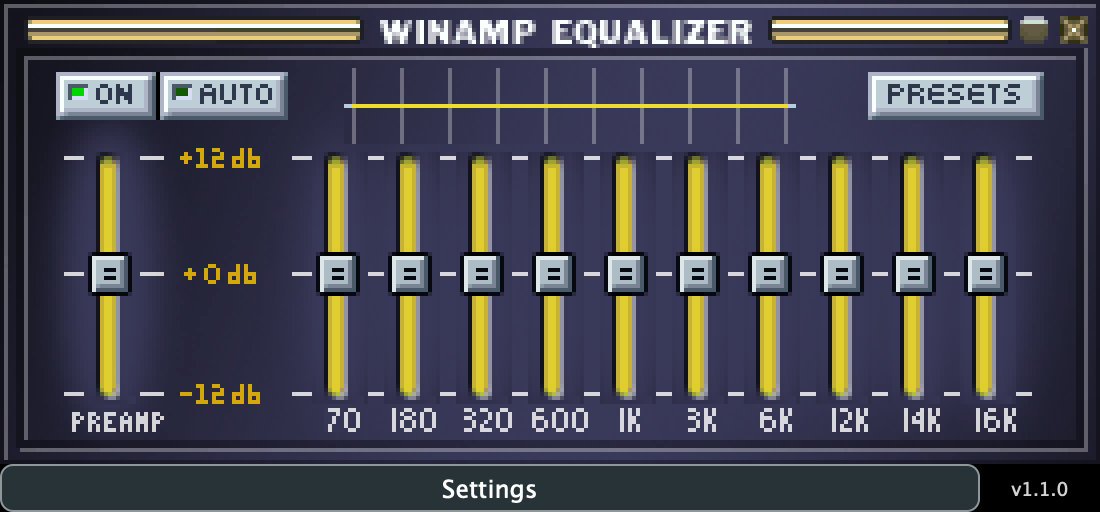
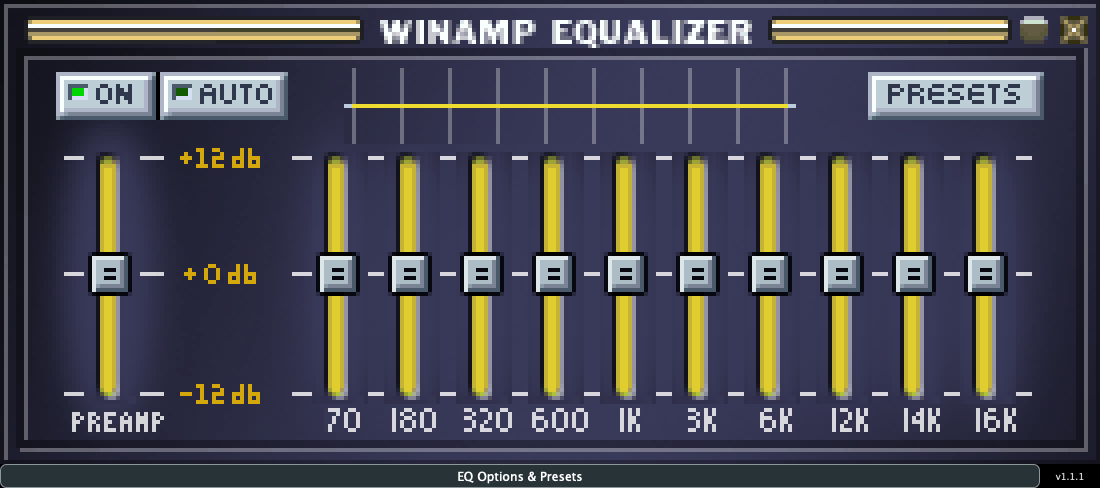
Add peak limiter protection to Constant-Q mode and 0dB detent status feedback

diff --git a/tools/capture.cpp b/tools/capture.cpp
@@ -1,0 +1,30 @@
+#include <juce_gui_basics/juce_gui_basics.h>
+#include "../Source/Plugin/PluginProcessor.h"
+#include <iostream>
+
+int main(int argc, char** argv) {
+    juce::ScopedJuceInitialiser_GUI gui;
+    EqualizerProcessor processor;
+    processor.editorScale = 4;
+    processor.prepareToPlay(48000.0, 512);
+    std::unique_ptr<juce::AudioProcessorEditor> editor(processor.createEditor());
+    if (!editor) {
+        std::cerr << "Failed to create editor\n";
+        return 1;
+    }
+    const juce::Image snapshot = editor->createComponentSnapshot(editor->getLocalBounds(), false, 1.0f);
+    juce::File file = juce::File::getCurrentWorkingDirectory().getChildFile(argc > 1 ? argv[1] : "assets/native-ui.png");
+    file.getParentDirectory().createDirectory();
+    file.deleteFile();
+    juce::FileOutputStream stream(file);
+    if (!stream.openedOk()) {
+        std::cerr << "Cannot open file\n";
+        return 1;
+    }
+    juce::PNGImageFormat png;
+    if (png.writeImageToStream(snapshot, stream)) {
+        std::cout << "Saved " << file.getFullPathName() << " (" << snapshot.getWidth() << "x" << snapshot.getHeight() << ")\n";
+        return 0;
+    }
+    return 1;
+}

diff --git a/Source/Plugin/PluginEditor.cpp b/Source/Plugin/PluginEditor.cpp
@@ -17,6 +17,7 @@ EqualizerEditor::EqualizerEditor(EqualizerProcessor& owner)
     , processor_(owner)
 {
     settingsButton_.onClick = [this] { showOptionsMenu(); };
+    settingsButton_.setButtonText("EQ Options & Presets");
     addAndMakeVisible(settingsButton_);
 
     versionLabel_.setText("v" JucePlugin_VersionString, juce::dontSendNotification);
@@ -103,7 +104,7 @@ void EqualizerEditor::mouseDrag(const juce::MouseEvent& event)
     if (!result.statusText.empty())
         settingsButton_.setButtonText(result.statusText);
     else
-        settingsButton_.setButtonText("Settings");
+        settingsButton_.setButtonText("EQ Options & Presets");
 
     lastSettings_ = settings;
     renderImage();
@@ -115,7 +116,7 @@ void EqualizerEditor::mouseUp(const juce::MouseEvent& event)
     if (!dragging_)
         return;
     dragging_ = false;
-    settingsButton_.setButtonText("Settings");
+    settingsButton_.setButtonText("EQ Options & Presets");
 
     auto settings = params::readSettings(processor_.parameters);
     const auto pt = toWinampCoords(event.getPosition());

diff --git a/Source/Core/EqualizerDsp.cpp b/Source/Core/EqualizerDsp.cpp
@@ -69,10 +69,19 @@ void EqualizerDsp::process(std::span<float> left, std::span<float> right, int nu
         for (float& sample : span)
             sample *= preamp;
 
-        if (settings.type == EqType::FourFront)
+        if (settings.type == EqType::FourFront) {
             fourFront_[static_cast<std::size_t>(ch)].processChannel(span, settings.limiter);
-        else
+        } else {
             constantQ_[static_cast<std::size_t>(ch)].processChannel(span);
+            if (settings.limiter) {
+                for (float& sample : span) {
+                    const float mag = std::abs(sample);
+                    if (mag > 0.930f) {
+                        sample = std::copysign(0.930f + 0.06f * std::tanh((mag - 0.930f) / 0.06f), sample);
+                    }
+                }
+            }
+        }
     }
 }
 

diff --git a/Source/Core/ClassicEqWindow.cpp b/Source/Core/ClassicEqWindow.cpp
@@ -193,7 +193,11 @@ std::string ClassicEqWindow::formatSliderStatus(int which, int pos, FrequencyBan
                             : kWinampLabels[static_cast<std::size_t>(idx)];
     const float db = songtickerDb(pos);
     char buffer[64] {};
-    std::snprintf(buffer, sizeof(buffer), "EQ: %s: %s%.1f dB", label, db >= 0.0f ? "+" : "", static_cast<double>(db));
+    if (pos == kSliderCenter) {
+        std::snprintf(buffer, sizeof(buffer), "EQ: %s: 0.0 dB [DETENT]", label);
+    } else {
+        std::snprintf(buffer, sizeof(buffer), "EQ: %s: %s%.1f dB", label, db >= 0.0f ? "+" : "", static_cast<double>(db));
+    }
     return std::string(buffer);
 }
 

diff --git a/README.md b/README.md
@@ -6,7 +6,7 @@ The 10-band graphic equalizer from Winamp's classic Equalizer window, as a VST3 
 
 ![Winamp Classic Equalizer native editor](assets/native-ui.png)
 
-*Captured from the released v1.1.0 VST3 editor. [Capture details and provenance](docs/SCREENSHOTS.md).*
+*Captured from the released v1.1.1 VST3 editor. [Capture details and provenance](docs/SCREENSHOTS.md).*
 
 ## About
 
